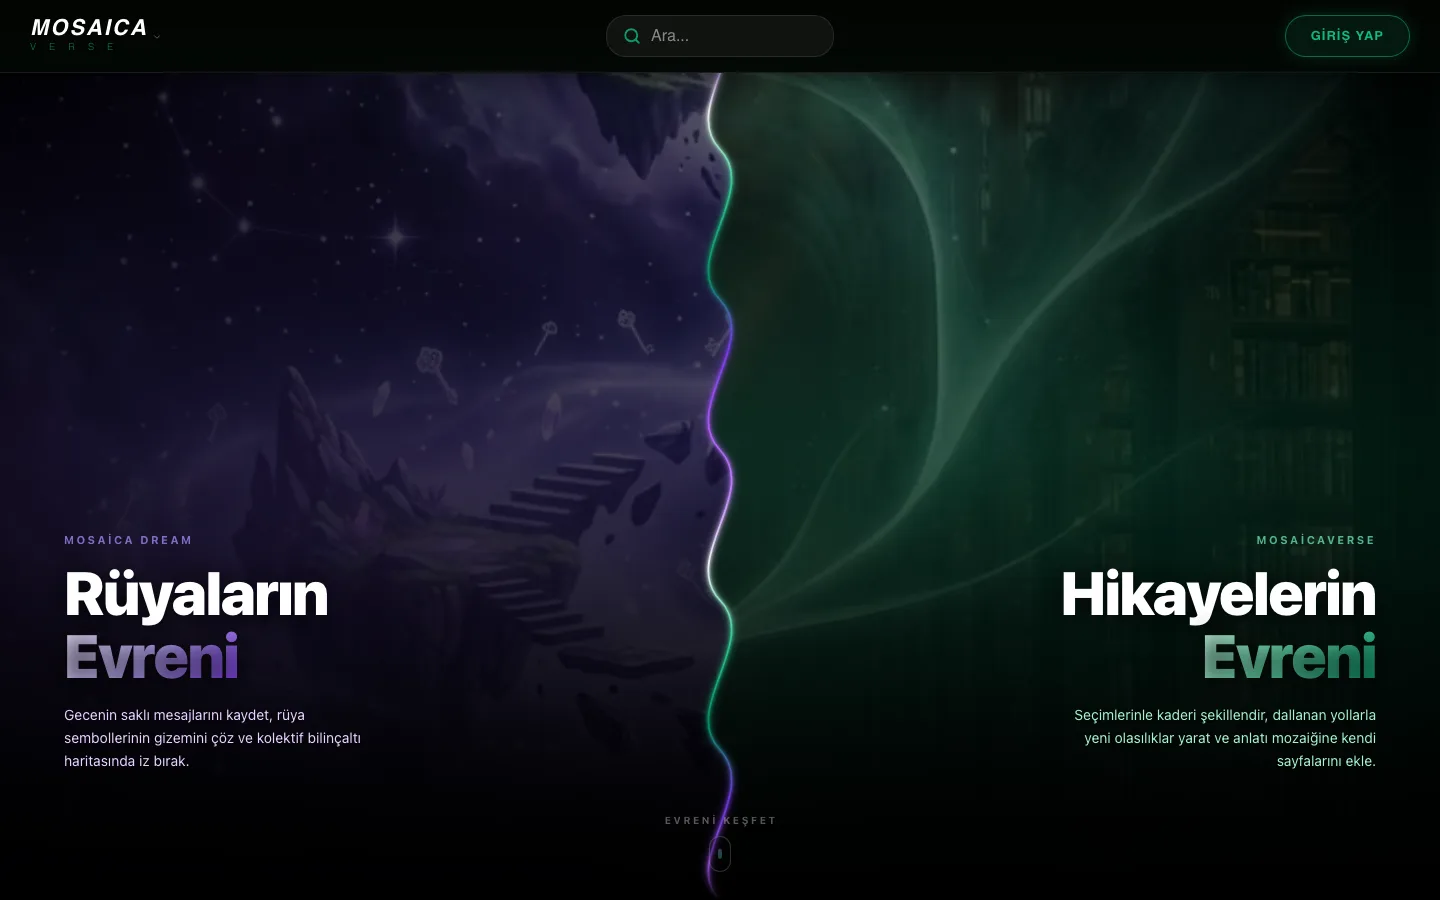
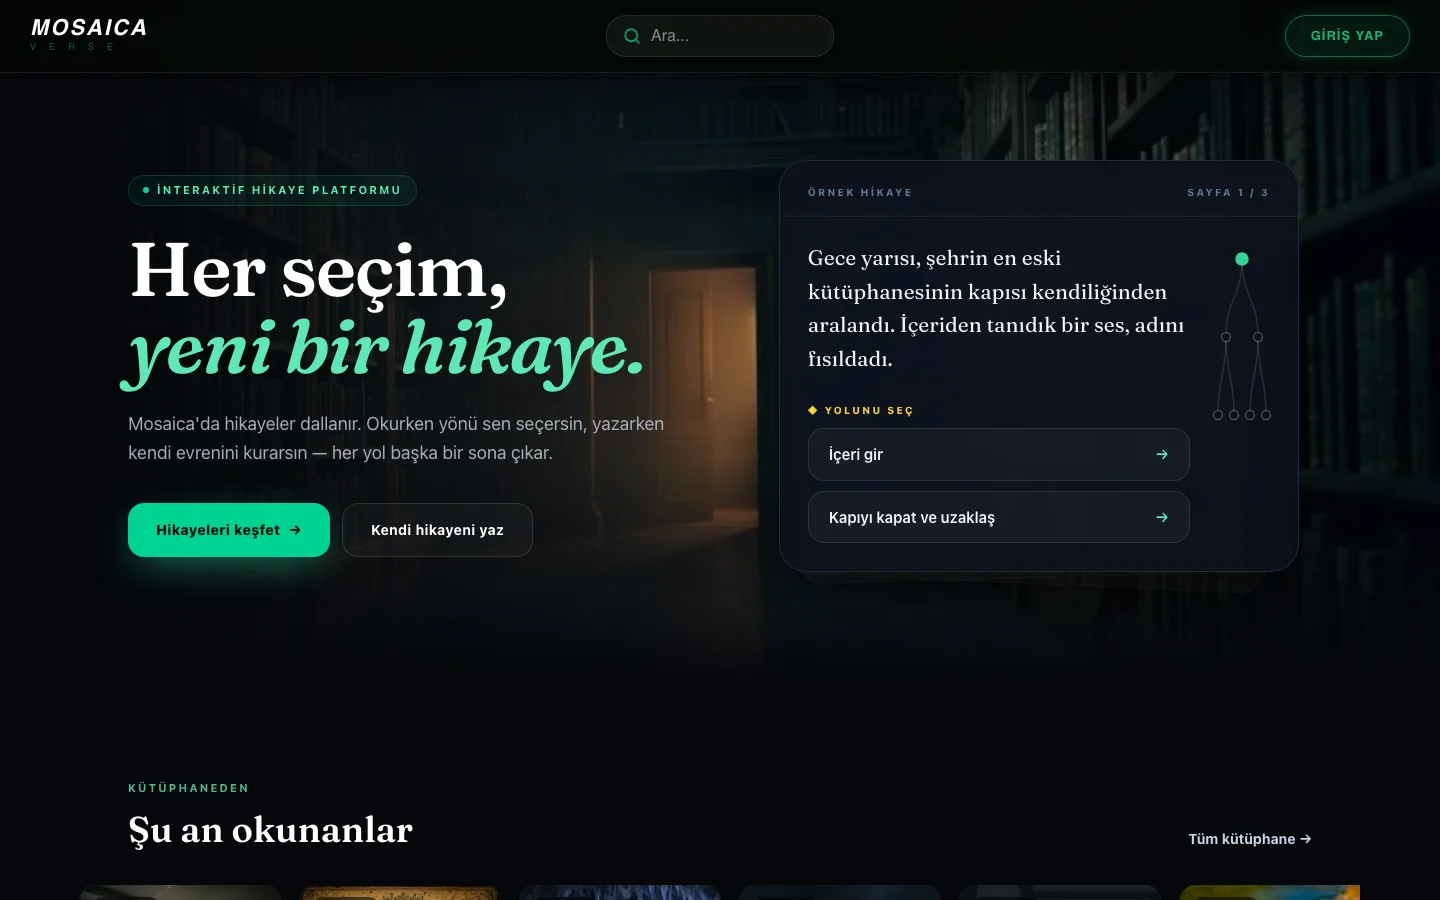
Mosaicaverse görselini güncelle
Canlı sitenin yenilenmiş ana sayfa ekran görüntüsü kartta kullanıldı.

diff --git a/index.html b/index.html
@@ -135,7 +135,7 @@
                   <a class="mock__act" data-live-extra href="https://mosaicaverse.com" target="_blank" rel="noopener noreferrer" aria-label="Siteyi yeni sekmede aç" hidden>↗</a>
                   <button type="button" class="mock__act" data-live-close aria-label="Canlı önizlemeyi kapat" hidden>✕</button>
                 </div>
-                <div class="mock__screen mock__screen--shot"><img src="img/mosaicaverse.webp" alt="Mosaicaverse ana sayfa ekran görüntüsü" loading="lazy" width="1440" height="900">
+                <div class="mock__screen mock__screen--shot"><img src="img/mosaicaverse.webp?v=2" alt="Mosaicaverse ana sayfa ekran görüntüsü" loading="lazy" width="1440" height="900">
                   <button type="button" class="live__cover" data-live-open tabindex="-1" aria-hidden="true"><span class="live__badge">▶ Canlı önizle</span></button>
                   <div class="live" hidden>
                     <iframe class="live__frame" title="Mosaicaverse canlı önizleme" data-src="https://mosaicaverse.com" referrerpolicy="no-referrer" sandbox="allow-scripts allow-same-origin allow-forms allow-popups allow-popups-to-escape-sandbox" allow="fullscreen"></iframe>
